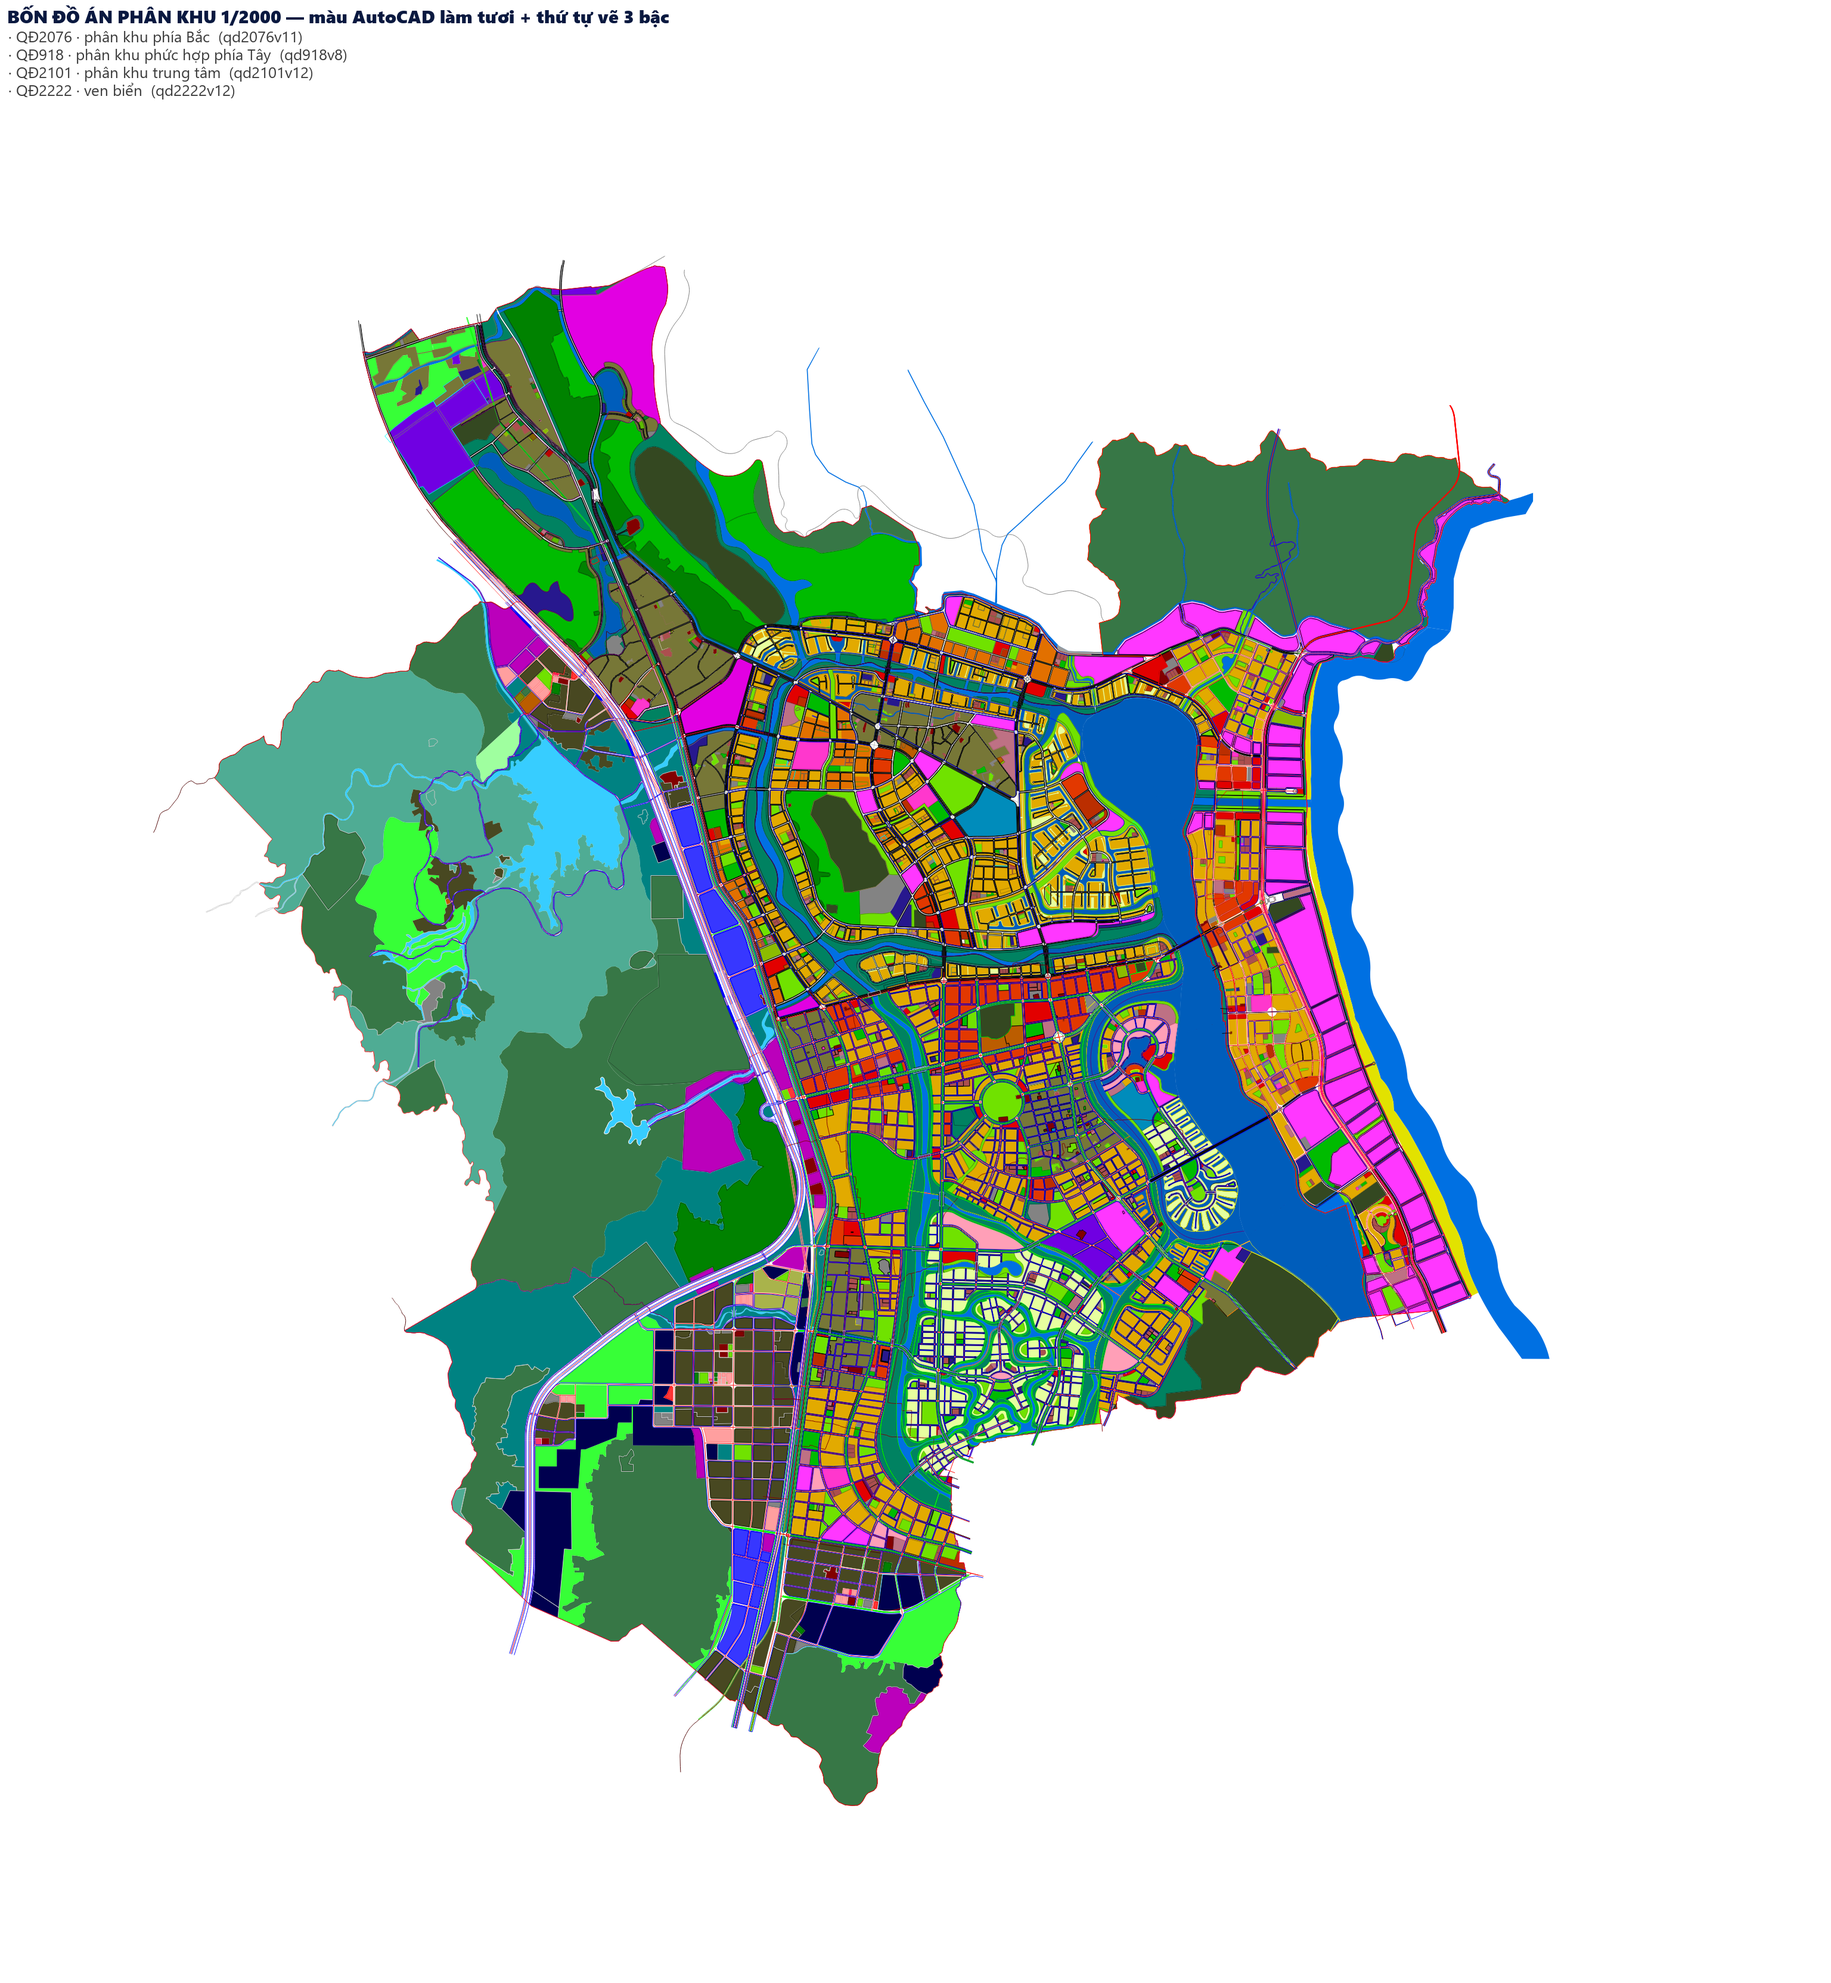
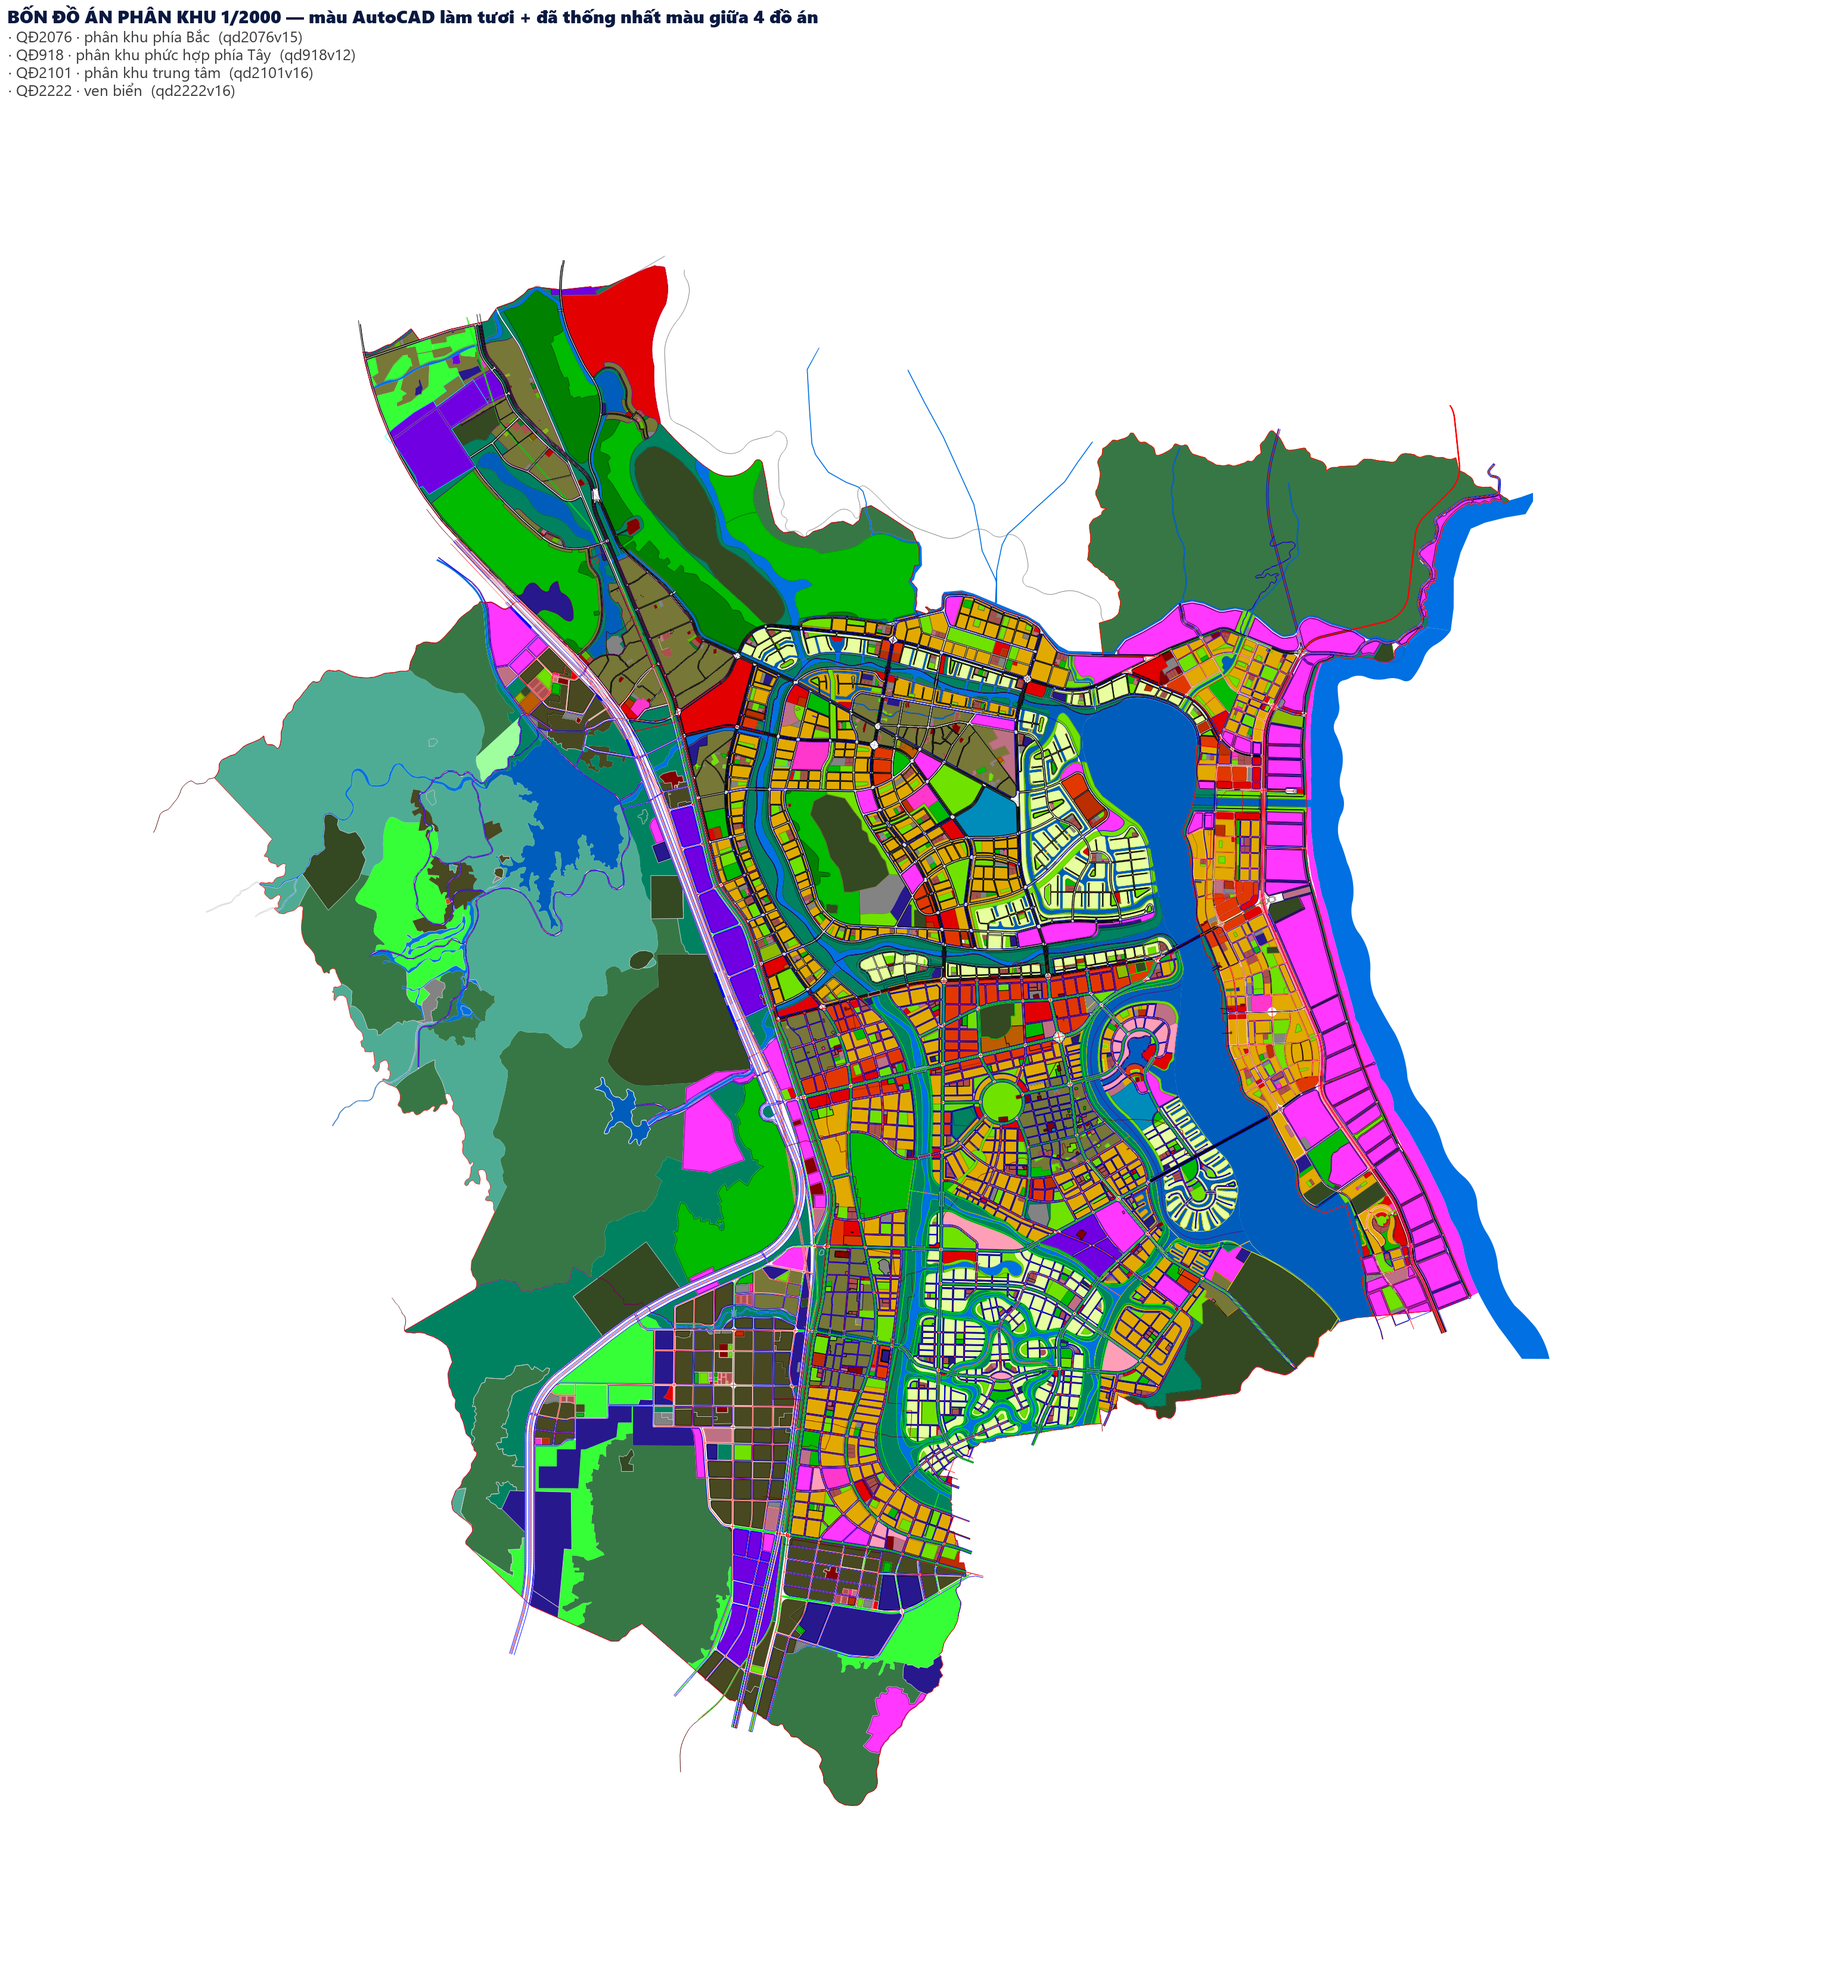
Mau quy hoach: ep mau thong nhat giua 4 do an + quy hoach moc nam nam tren
- Them scripts/qh-pipeline/mau-sua-rieng.json: cung mot loai dat ma moi do an to
  mot mau (vd San xuat cong nghiep: QD2076/QD2101 tim, QD918 xanh duong). Ep 22 loai
  dat ve mot mau. KHONG ep 'Nhom nha o' vi trong mot ban ve da co nhieu mau co y nghia.
  Mau cay xanh chuyen dung / dat o do tu anh chup app tham chieu.
- 9-doi-bang-mau.py doc bang tren va ep mau sau khi tra bang mau.
- Thu tu ve: HT_ duoi cung -> DAT_ (phan loai chung) -> QH2030_/QH2045_ tren cung
  (chu du an doi chieu MicroStation: don vi o mat do thap phai nhin thay).
- Chinh bang autocad-tuoi.tbl theo so do that.
- Cat lai tile: qd2076v16 (9.723) qd2101v17 (5.706) qd2222v17 (7.058) qd918v13 (14.181).
  Chu giai sinh lai: 41 dong mau. Da xoa cac bo tile cu.

Claude-Session: https://claude.ai/code/session_01WLgRNr48SXjNTTdQpiJSdr

diff --git a/apps/frontend/src/app/map/page.tsx b/apps/frontend/src/app/map/page.tsx
@@ -112,7 +112,7 @@ const RASTER_OVERLAYS = [
     tiles: ['/tiles/qd205v11/{z}/{x}/{y}.png'], minzoom: 12, maxzoom: 18,
     coordinates: [[108.9401268, 12.217594], [109.2563886, 12.217594], [109.2563886, 11.9257021], [108.9401268, 11.9257021]] as [[number, number], [number, number], [number, number], [number, number]] },
   // ⚠ MÀU BẢN ĐỒ QUY HOẠCH LẤY ĐÚNG TỪ BẢN VẼ — ĐỌC KỸ TRƯỚC KHI ĐỔI (13/9/2026)
-  // Bốn bộ tile phân khu (qd2076v11 · qd2101v12 · qd2222v12 · qd918v8) dùng BẢNG MÀU AUTOCAD.
+  // Bốn bộ tile phân khu (qd2076v16 · qd2101v17 · qd2222v17 · qd918v13) dùng BẢNG MÀU AUTOCAD.
   // Đã thử bảng MicroStation (chủ dự án tự xuất ra từ Settings → Color Table) nhưng đối chiếu
   // với bản vẽ mở bằng MicroStation thì bảng AutoCAD vẽ ĐÚNG HƠN — nên giữ AutoCAD.
   // Muốn thử lại bảng khác: python 9-doi-bang-mau.py <vao.geojson> <ra.geojson> <tên-bảng>
@@ -171,7 +171,7 @@ const RASTER_OVERLAYS = [
   // có 1.792 vùng nhưng tới 48.411 nét (chỉ giới đường đỏ, lề đường, ranh phân khu). Bỏ nét đi thì
   // nhìn chỉ thấy mấy mảng màu rời rạc, khác hẳn lúc mở file CAD gốc.
   { id: 'qh-qd2076', name: 'Quy hoạch phân khu phía Bắc QĐ2076 (1/2000)', url: '',
-    tiles: ['/tiles/qd2076v11/{z}/{x}/{y}.png'], minzoom: 8, maxzoom: 18,
+    tiles: ['/tiles/qd2076v16/{z}/{x}/{y}.png'], minzoom: 8, maxzoom: 18,
     coordinates: [[109.0288, 12.2004], [109.2513, 12.2004], [109.2513, 12.0527], [109.0288, 12.0527]] as [[number, number], [number, number], [number, number], [number, number]] },
   // ── QĐ2101 · quy hoạch phân khu trung tâm 1/2000 ────────────────────────────────────
   // Bản "v3" sửa hai lỗi của v2:
@@ -186,7 +186,7 @@ const RASTER_OVERLAYS = [
   // /tiles/ là `immutable, max-age=1 năm` nên trình duyệt và Cloudflare sẽ giữ nguyên ảnh cũ
   // cả năm, sửa xong mà người dùng vẫn thấy y như trước.
   { id: 'qh-qd2101', name: 'Quy hoạch phân khu trung tâm QĐ2101 (1/2000)', url: '',
-    tiles: ['/tiles/qd2101v12/{z}/{x}/{y}.png'], minzoom: 8, maxzoom: 18,
+    tiles: ['/tiles/qd2101v17/{z}/{x}/{y}.png'], minzoom: 8, maxzoom: 18,
     coordinates: [[109.1187, 12.0793], [109.2041, 12.0793], [109.2041, 11.99], [109.1187, 11.99]] as [[number, number], [number, number], [number, number], [number, number]] },
   // ── QĐ2222 · quy hoạch 1/2000 ──────────────────────────────────────────────────────
   // Bản "v3" sửa lỗi "mảng xám" của v2: v2 được cắt từ bản dữ liệu CŨ, lúc đó một số ô đất
@@ -198,12 +198,12 @@ const RASTER_OVERLAYS = [
   // Khung bao thu hẹp theo đúng ranh giới thật: trước ghi vươn ra tận 109.33 chỉ vì ô chú giải
   // nằm ngoài đó, chứ quy hoạch không hề trải tới chỗ ấy.
   { id: 'qh-qd2222', name: 'Quy hoạch QĐ2222 (1/2000)', url: '',
-    tiles: ['/tiles/qd2222v12/{z}/{x}/{y}.png'], minzoom: 8, maxzoom: 18,
+    tiles: ['/tiles/qd2222v17/{z}/{x}/{y}.png'], minzoom: 8, maxzoom: 18,
     coordinates: [[109.1630, 12.1505], [109.2237, 12.1505], [109.2237, 12.0258], [109.1630, 12.0258]] as [[number, number], [number, number], [number, number], [number, number]] },
   // ── QĐ918 · quy hoạch phân khu PHỨC HỢP PHÍA TÂY 1/2000 ────────────────────────────
   // Bản gốc là DGN V8, không công cụ nào trên máy đọc nổi; chủ dự án xuất ra DXF rồi mới nạp được.
   { id: 'qh-qd918', name: 'Quy hoạch phân khu phức hợp phía Tây QĐ918 (1/2000)', url: '',
-    tiles: ['/tiles/qd918v8/{z}/{x}/{y}.png'], minzoom: 8, maxzoom: 18,
+    tiles: ['/tiles/qd918v13/{z}/{x}/{y}.png'], minzoom: 8, maxzoom: 18,
     coordinates: [[109.0372, 12.1265], [109.1454, 12.1265], [109.1454, 11.9569], [109.0372, 11.9569]] as [[number, number], [number, number], [number, number], [number, number]] },
   // ── QĐ893 · quy hoạch SỬ DỤNG ĐẤT đến 2030, phủ TOÀN huyện Cam Lâm cũ ───────
   // Bản này KHÔNG cần lớp nét: nó vốn là các mảng tô kín (nông nghiệp, đất ở, giao thông, mặt

diff --git a/scripts/qh-pipeline/9-doi-bang-mau.py b/scripts/qh-pipeline/9-doi-bang-mau.py
@@ -20,13 +20,37 @@ Tên bảng màu: `autocad` (bảng sẵn trong ezdxf) hoặc tên file .tbl tro
 thì GIỮ NGUYÊN màu cũ, vì màu đó không phụ thuộc bảng.
 """
 import collections
+import importlib.util
 import io
 import json
 import os
 import sys
+import unicodedata
 
 HERE = os.path.dirname(os.path.abspath(__file__))
 BANG_DIR = os.path.join(HERE, 'bang-mau')
+
+# ── SỬA MÀU RIÊNG CHO TỪNG LOẠI ĐẤT ─────────────────────────────────────────
+# Mỗi đồ án do một đơn vị vẽ, cùng một loại đất mà số hiệu màu khác nhau
+# ('Sản xuất công nghiệp': QĐ2076/QĐ2101 tím số 192, QĐ918 xanh dương số 5).
+# Bảng mau-sua-rieng.json ép một màu duy nhất cho những loại đất như vậy.
+# Xem phần `_doc` trong file đó — CHỈ ghi vào khi đã đối chiếu và chủ dự án xác nhận.
+_spec = importlib.util.spec_from_file_location('_z5', os.path.join(HERE, '5-tao-qh-zones.py'))
+_z5 = importlib.util.module_from_spec(_spec)
+_spec.loader.exec_module(_z5)
+
+
+def _khong_dau(x):
+    x = unicodedata.normalize('NFD', x or '')
+    x = ''.join(c for c in x if unicodedata.category(c) != 'Mn')
+    return x.replace('đ', 'd').replace('Đ', 'D').lower().strip()
+
+
+try:
+    with io.open(os.path.join(HERE, 'mau-sua-rieng.json'), encoding='utf-8') as _fp:
+        SUA_RIENG = {_khong_dau(k): v for k, v in json.load(_fp)['mau'].items()}
+except Exception:
+    SUA_RIENG = {}
 
 
 def nap_bang(ten):
@@ -50,6 +74,7 @@ def main(vao, ra, ten_bang):
     d = json.load(io.open(vao, encoding='utf-8'))
     doi = giu = 0
     dem = collections.Counter()
+    ep = collections.Counter()
     for f in d.get('features', []):
         p = f.get('properties') or {}
         ci = p.get('ci') or 0
@@ -59,10 +84,17 @@ def main(vao, ra, ten_bang):
             dem[(ci, bang[ci])] += 1
         else:
             giu += 1
+        # Ép màu cho loại đất nào bị các bản vẽ tô không thống nhất
+        m = SUA_RIENG.get(_khong_dau(_z5.ten_loai(p.get('lo', ''))))
+        if m:
+            p['c'] = m
+            ep[_z5.ten_loai(p.get('lo', ''))] += 1
     with io.open(ra, 'w', encoding='utf-8') as fp:
         json.dump(d, fp, ensure_ascii=False)
     print('%s → %s   (bảng màu: %s)' % (os.path.basename(vao), os.path.basename(ra), ten_bang))
     print('  · đổi màu %d ô · giữ nguyên %d ô (không có số hiệu màu)' % (doi, giu))
+    if ep:
+        print('  · ép màu riêng: ' + ' · '.join('%s %d ô' % (k, v) for k, v in ep.most_common()))
     print('  · 6 số hiệu nhiều ô nhất: ' + ' · '.join('%d→%s (%d ô)' % (ci, m, n) for (ci, m), n in dem.most_common(6)))
     print('  >>> %s — %.1f MB' % (ra, os.path.getsize(ra) / 1048576))
 

diff --git a/scripts/qh-pipeline/1b-doc-dxf.py b/scripts/qh-pipeline/1b-doc-dxf.py
@@ -312,15 +312,19 @@ def main(vao, ra, bo_mau=(), lay_net=False):
     # TRÙM KÍN các ô đất nhỏ vẽ trước đó, nhìn ra một mảng màu to đè lên khu chi tiết
     # (chủ dự án phát hiện: "có vài chỗ màu bị đè"). Sắp theo diện tích giảm dần là hết.
     # Thứ tự vẽ BA BẬC (vẽ trước = nằm dưới):
-    #   0. HT_*                        hiện trạng
-    #   1. QH2030_/QH2045_/QHDD_/QHDH_ khối quy hoạch (đơn vị ở, khu chức năng)
-    #   2. DAT_*                       phần CHIA NHỎ CHI TIẾT bên trong khối
+    #   0. HT_*                        hiện trạng — nằm dưới cùng
+    #   1. DAT_*                       phân loại chung, KHÔNG ghi mốc năm
+    #   2. QH2030_/QH2045_/QHDD_/QHDH_ quy hoạch theo MỐC NĂM — nằm trên cùng
     # Trong mỗi bậc: mảng TO vẽ trước, mảng NHỎ vẽ sau (nằm trên).
-    # Vì sao cần bậc 2: đo trên QĐ2076 có 16,7% diện tích bị hai ô đất chồng lên nhau,
-    # đúng kiểu 'DAT_O_Nhomnhao Thaptang' nằm trong 'QH2045_DAT_DVO moiTB'. Nếu chỉ sắp
-    # theo diện tích thì một mảng chia nhỏ hơi to sẽ bị khối lớn vẽ sau trùm mất, cả khu
-    # chi tiết biến thành một mảng màu (chủ dự án gọi là "chồng màu").
-    BAC_VE = {'HT': 0, 'DAT': 2}
+    # Vì sao phải chia bậc chứ không chỉ sắp theo diện tích: đo trên QĐ2076 có tới 16,7%
+    # diện tích bị HAI ô đất chồng lên nhau, và hai bên xấp xỉ bằng nhau nên sắp theo diện
+    # tích là ăn may — lúc cái này trên, lúc cái kia trên.
+    #   'DAT_O_Nhomnhao Thaptang'                  363 ô · 912 ha · #e2aa00 vàng nghệ
+    #   'QH2045_ DAT_Don vi o mat do thap...'      106 ô · 211 ha · #e7ff9f vàng chanh
+    #   'QH2030_ DAT_Don vi o mat do thap...'       77 ô · 209 ha · #e7ff9f
+    # Chủ dự án đối chiếu MicroStation: phần ĐƠN VỊ Ở MẬT ĐỘ THẤP phải nhìn thấy, tức
+    # level ghi MỐC NĂM (QH2030_/QH2045_) nằm TRÊN level phân loại chung (DAT_).
+    BAC_VE = {'HT': 0, 'DAT': 1}   # còn lại (QH2030/QH2045/QHDD/QHDH) = 2, nằm trên cùng
     out.sort(key=lambda f: (BAC_VE.get(f['properties'].get('hz') or '', 1),
                             -dien_tich_ring(f['geometry'])))
     print('  · giữ %d vùng | bỏ %d (level không phải quy hoạch), %d (ra ngoài khung), %d (lỗi hình)'
